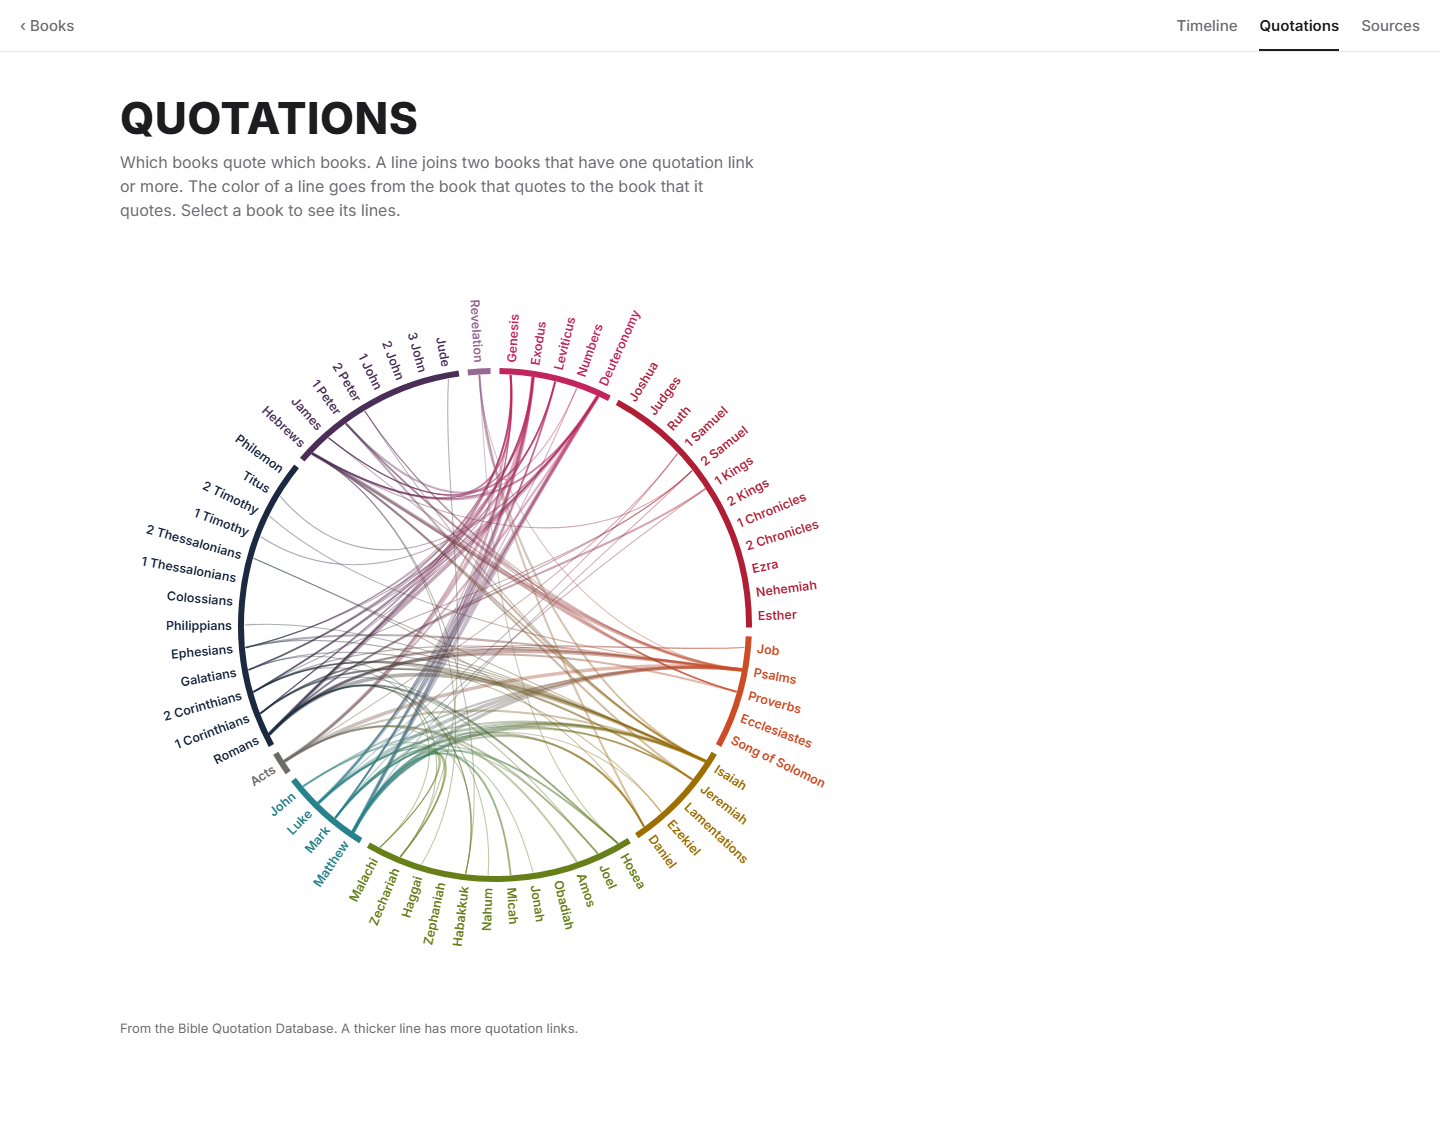
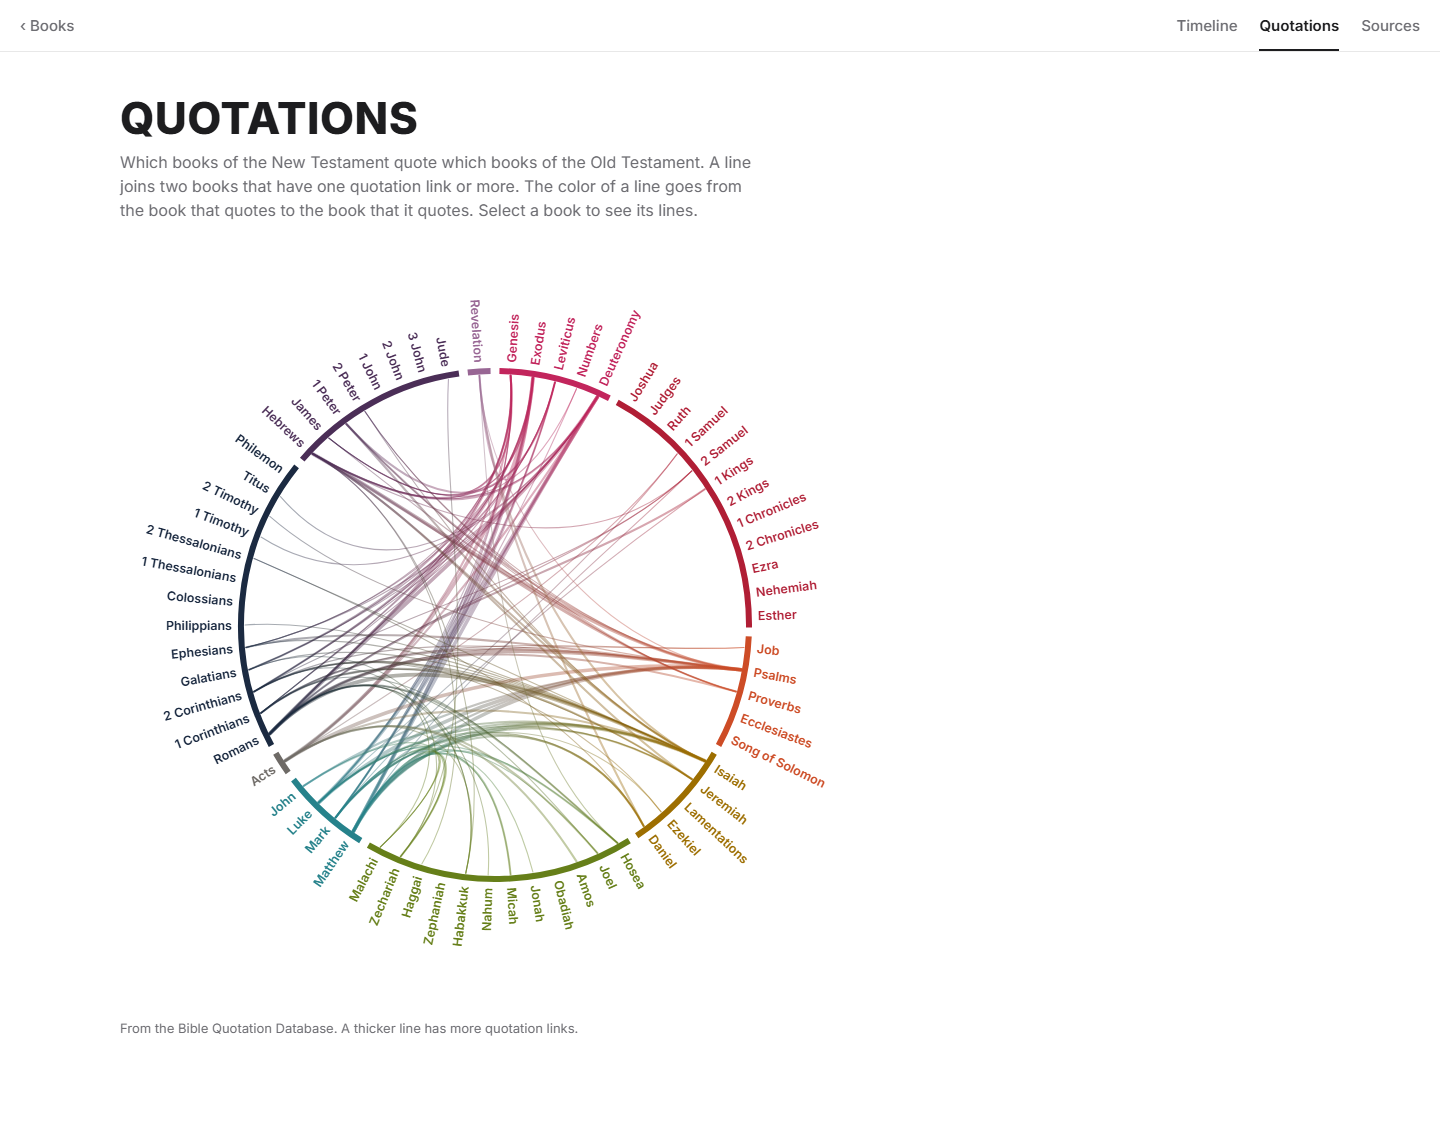
Task 15: gray names, the new first sentence, and no cut names in the narrow diagram
Arthur's corrections of 2026-11-14:
- A book name with no line to the selected book keeps full opacity and
  has the color #6E6E73.
- The first sentence of the Quotations page names the two Testaments.
- The narrow label room is 70 units, so no book name is cut.
- DESIGN.md section 7.8 records the gray names, the sentence, and the
  exception for the size of the names in the narrow diagram.
- Tests for the three changes; screenshots taken again.

Changed region(s): [[0.0938, 0.1237, 0.5312, 0.2164]]

diff --git a/src/reference/QuotationsPage.tsx b/src/reference/QuotationsPage.tsx
@@ -18,6 +18,9 @@ import { RefBar } from './RefBar.tsx'
 /** The ink of a dim line. The prototype value. */
 const DIM_INK = '#1D1D1F'
 
+/** The color of a book name with no line to the selected book. It keeps full opacity. docs/DESIGN.md section 7.8. */
+const GRAY_NAME = '#6E6E73'
+
 export function QuotationsPage({ books, layout }: { books: Book[]; layout: ScreenLayout }) {
   const [pairs, setPairs] = useState<QuotationPair[] | null>(null)
   const [error, setError] = useState<string | null>(null)
@@ -45,7 +48,7 @@ export function QuotationsPage({ books, layout }: { books: Book[]; layout: Scree
       <main className="ref-main">
         <h1>Quotations</h1>
         <p className="ref-lead">
-          Which books quote which books. A line joins two books that have one quotation link or more. The color of a line goes from the book
+          Which books of the New Testament quote which books of the Old Testament. A line joins two books that have one quotation link or more. The color of a line goes from the book
           that quotes to the book that it quotes. Select a book to see its lines.
         </p>
         {error && <p role="alert">The quotation links did not load. {error}</p>}
@@ -154,7 +157,9 @@ function Diagram({ books, pairs, layout, selected, onSelect }: DiagramProps) {
       </g>
       {d.books.map((b) => {
         const isSelected = selected === b.book.id
-        const dimmed = selected !== null && !isSelected && !linked.has(b.book.id)
+        // A name with no line to the selected book is gray, at full opacity, so that its text keeps a
+        // contrast of 4.5 to 1. Arthur decided this on 2026-11-14.
+        const gray = selected !== null && !isSelected && !linked.has(b.book.id)
         return (
           <g
             key={b.book.id}
@@ -164,7 +169,7 @@ function Diagram({ books, pairs, layout, selected, onSelect }: DiagramProps) {
             aria-pressed={isSelected}
             aria-label={b.book.name}
             data-book={b.book.id}
-            data-dimmed={dimmed}
+            data-gray={gray}
             // In the narrow layout, a name is smaller than 24 px. The list control above the diagram does
             // the same thing at 44 px: the exception "Equivalent" of WCAG 2.5.8.
             data-target-equivalent={layout === 'narrow' ? 'q-select' : undefined}
@@ -177,8 +182,7 @@ function Diagram({ books, pairs, layout, selected, onSelect }: DiagramProps) {
             <text
               x={b.x}
               y={b.y}
-              fill={b.color}
-              fillOpacity={dimmed ? 0.25 : 1}
+              fill={gray ? GRAY_NAME : b.color}
               fontSize={size.fontSize}
               fontWeight={isSelected ? 800 : 600}
               dominantBaseline="central"

diff --git a/e2e/reference.spec.ts b/e2e/reference.spec.ts
@@ -94,6 +94,16 @@ test.describe('Reference section', () => {
     // The lines of Romans are bright, and the other lines are dim.
     const on = await page.locator('.q-line[data-on="true"]').evaluateAll((els) => els.map((e) => `${e.getAttribute('data-from')}>${e.getAttribute('data-to')}`))
     expect(on.sort()).toEqual(pairs.filter((p) => p.from === 'romans' || p.to === 'romans').map((p) => `${p.from}>${p.to}`).sort())
+    // A name with no line to Romans is gray at full opacity. A name with a line keeps its group color.
+    const linked = new Set(pairs.flatMap((p) => (p.from === 'romans' ? [p.to] : p.to === 'romans' ? [p.from] : [])))
+    const names = await diagram(page)
+      .getByRole('button')
+      .evaluateAll((els) => els.map((g) => ({ id: g.getAttribute('data-book')!, fill: g.querySelector('text')!.getAttribute('fill'), opacity: getComputedStyle(g.querySelector('text')!).fillOpacity })))
+    for (const n of names) {
+      expect(n.opacity).toBe('1')
+      if (n.id === 'romans' || linked.has(n.id)) expect(n.fill).not.toBe('#6E6E73')
+      else expect(n.fill).toBe('#6E6E73')
+    }
     // Select it again to clear.
     await romans.click()
     await expect(romans).toHaveAttribute('aria-pressed', 'false')
@@ -133,8 +143,25 @@ test.describe('Reference section', () => {
     await expect(page.getByRole('combobox', { name: 'Select a book' })).toHaveCount(0)
   })
 
-  test('the line below the diagram names the source', async ({ page }) => {
+  test('no book name is cut at the edge of the diagram or of the screen', async ({ page }) => {
+    for (const viewport of [{ width: 320, height: 640 }, NARROW, { width: 899, height: 900 }, WIDE]) {
+      await openQuotations(page, viewport)
+      const room = await diagram(page).evaluate((svg) => {
+        const s = svg.getBoundingClientRect()
+        return Math.min(
+          ...[...svg.querySelectorAll('.q-book text')].map((t) => {
+            const r = t.getBoundingClientRect()
+            return Math.min(r.left - s.left, s.right - r.right, r.top - s.top, s.bottom - r.bottom, r.left, window.innerWidth - r.right)
+          }),
+        )
+      })
+      expect(room, `width ${viewport.width}`).toBeGreaterThanOrEqual(0)
+    }
+  })
+
+  test('the first sentence names the two Testaments, and the line below the diagram names the source', async ({ page }) => {
     await openQuotations(page, WIDE)
+    await expect(page.locator('.ref-lead')).toHaveText(/^Which books of the New Testament quote which books of the Old Testament\. /)
     await expect(page.locator('.ref-foot')).toHaveText('From the Bible Quotation Database. A thicker line has more quotation links.')
   })
 

diff --git a/src/reference/quotationLayout.ts b/src/reference/quotationLayout.ts
@@ -22,9 +22,13 @@ export interface DiagramSize {
   lineWidths: [number, number, number]
 }
 
-/** Prototype values: the wide layout, and the narrow layout. */
+/**
+ * Prototype values: the wide layout, and the narrow layout.
+ * The narrow label room is 70, where the prototype has 64. With 64, the names "1 Thessalonians" and
+ * "2 Thessalonians" go past the edge of the diagram and are cut. The longest name is about 70 units long.
+ */
 export const WIDE_SIZE: DiagramSize = { r: 250, label: 120, labelGap: 13, fontSize: 12.5, arcWidth: 6, lineWidths: [1.1, 2.1, 3.6] }
-export const NARROW_SIZE: DiagramSize = { r: 112, label: 64, labelGap: 9, fontSize: 8.5, arcWidth: 4, lineWidths: [0.8, 1.4, 2.4] }
+export const NARROW_SIZE: DiagramSize = { r: 112, label: 70, labelGap: 9, fontSize: 8.5, arcWidth: 4, lineWidths: [0.8, 1.4, 2.4] }
 
 /** The gap between two groups, in radians. */
 const GROUP_GAP = 0.035

diff --git a/docs/DESIGN.md b/docs/DESIGN.md
@@ -357,6 +357,10 @@ Arthur decided the three items of this section on 2026-11-14. The design of the 
   - The color of a line goes from the color of the book that quotes to the color of the book that it quotes. Three steps of thickness show the number of quotation links.
   - A tap on a book name lights its lines, dims the other lines, and shows a list: the books that it quotes and the books that quote it, with the number of quotation links for each. The list is the text form of the lines. A control in the list opens the book.
   - On a narrow screen, a list control selects the book, because the names around the circle are small.
+- The quotation diagram on the site. Arthur decided these three rules on 2026-11-14.
+  - Gray names. When a book is selected, a book name with no line to the selected book keeps full opacity and has the color #6E6E73. This replaces the faded names of the prototype.
+  - The first sentence of the Quotations page is "Which books of the New Testament quote which books of the Old Testament."
+  - The size of the book names in the narrow diagram. In the narrow layout, a book name is smaller than the target size of 24 px. This is accepted, because the list control above the diagram selects the same book at 44 px. This is the exception "Equivalent" of WCAG 2.5.8. The accessibility test accepts it by the attribute `data-target-equivalent`.
 - The links to the section in the prototype: a line at the bottom of the wall has the name of the translation and the links "Timeline", "Quotations", and "Sources". The top bar of each Reference page has "Books" and the three page names. This is a value of the designer.
 - The timeline shows no ring where scholars differ on the date. Arthur decided this on 2026-11-14. This replaces the sign of section 4.6. Reason: 47 of the 66 books have a "Scholars differ" detail for the date, so the sign tells the reader very little. One line below the timeline says that scholars differ on many dates, and that "About this book" gives the detail.
 - The fonts section of the Sources page credits Inter and Lora, with their copyright lines and their licences. Task 17 changes it when it removes the fonts of the first build.
